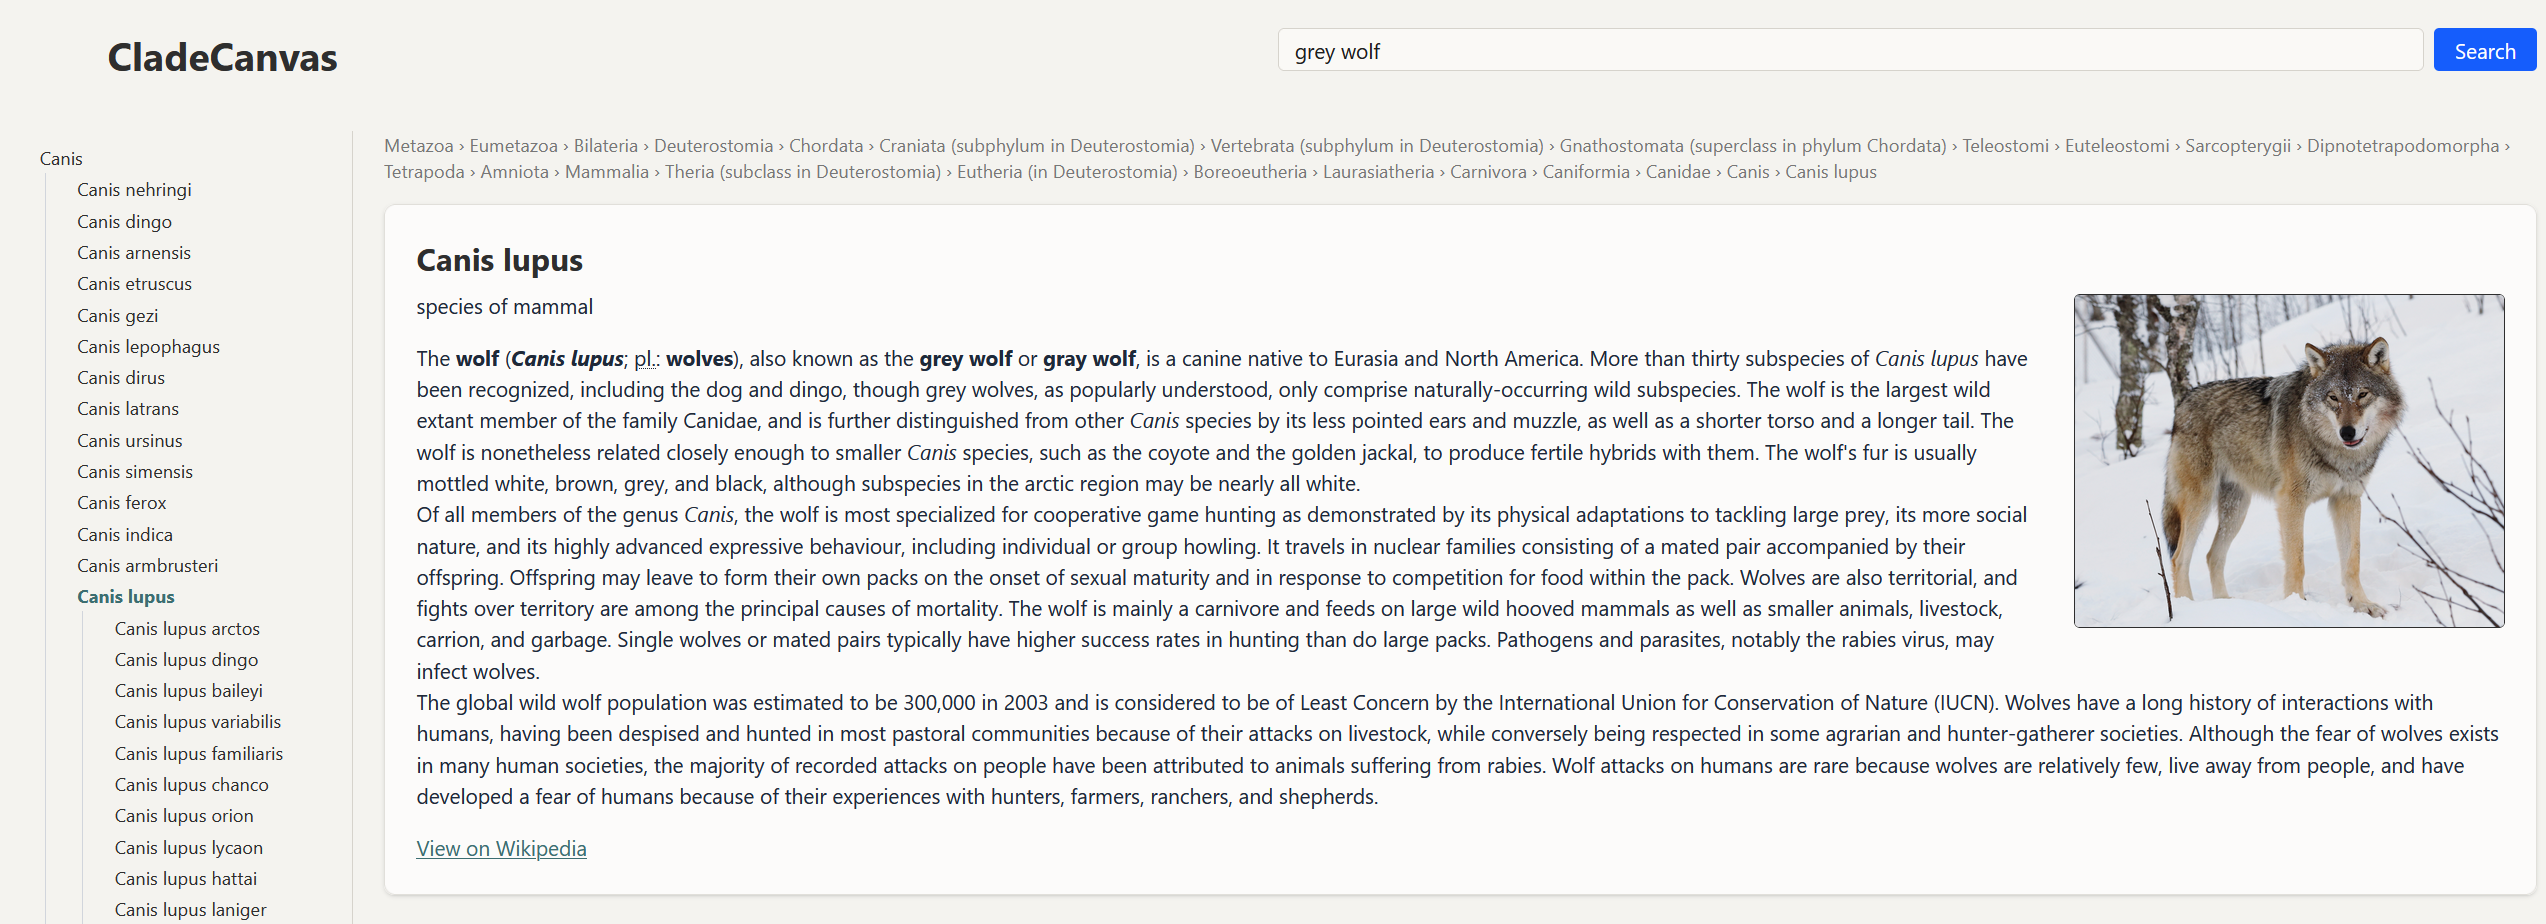
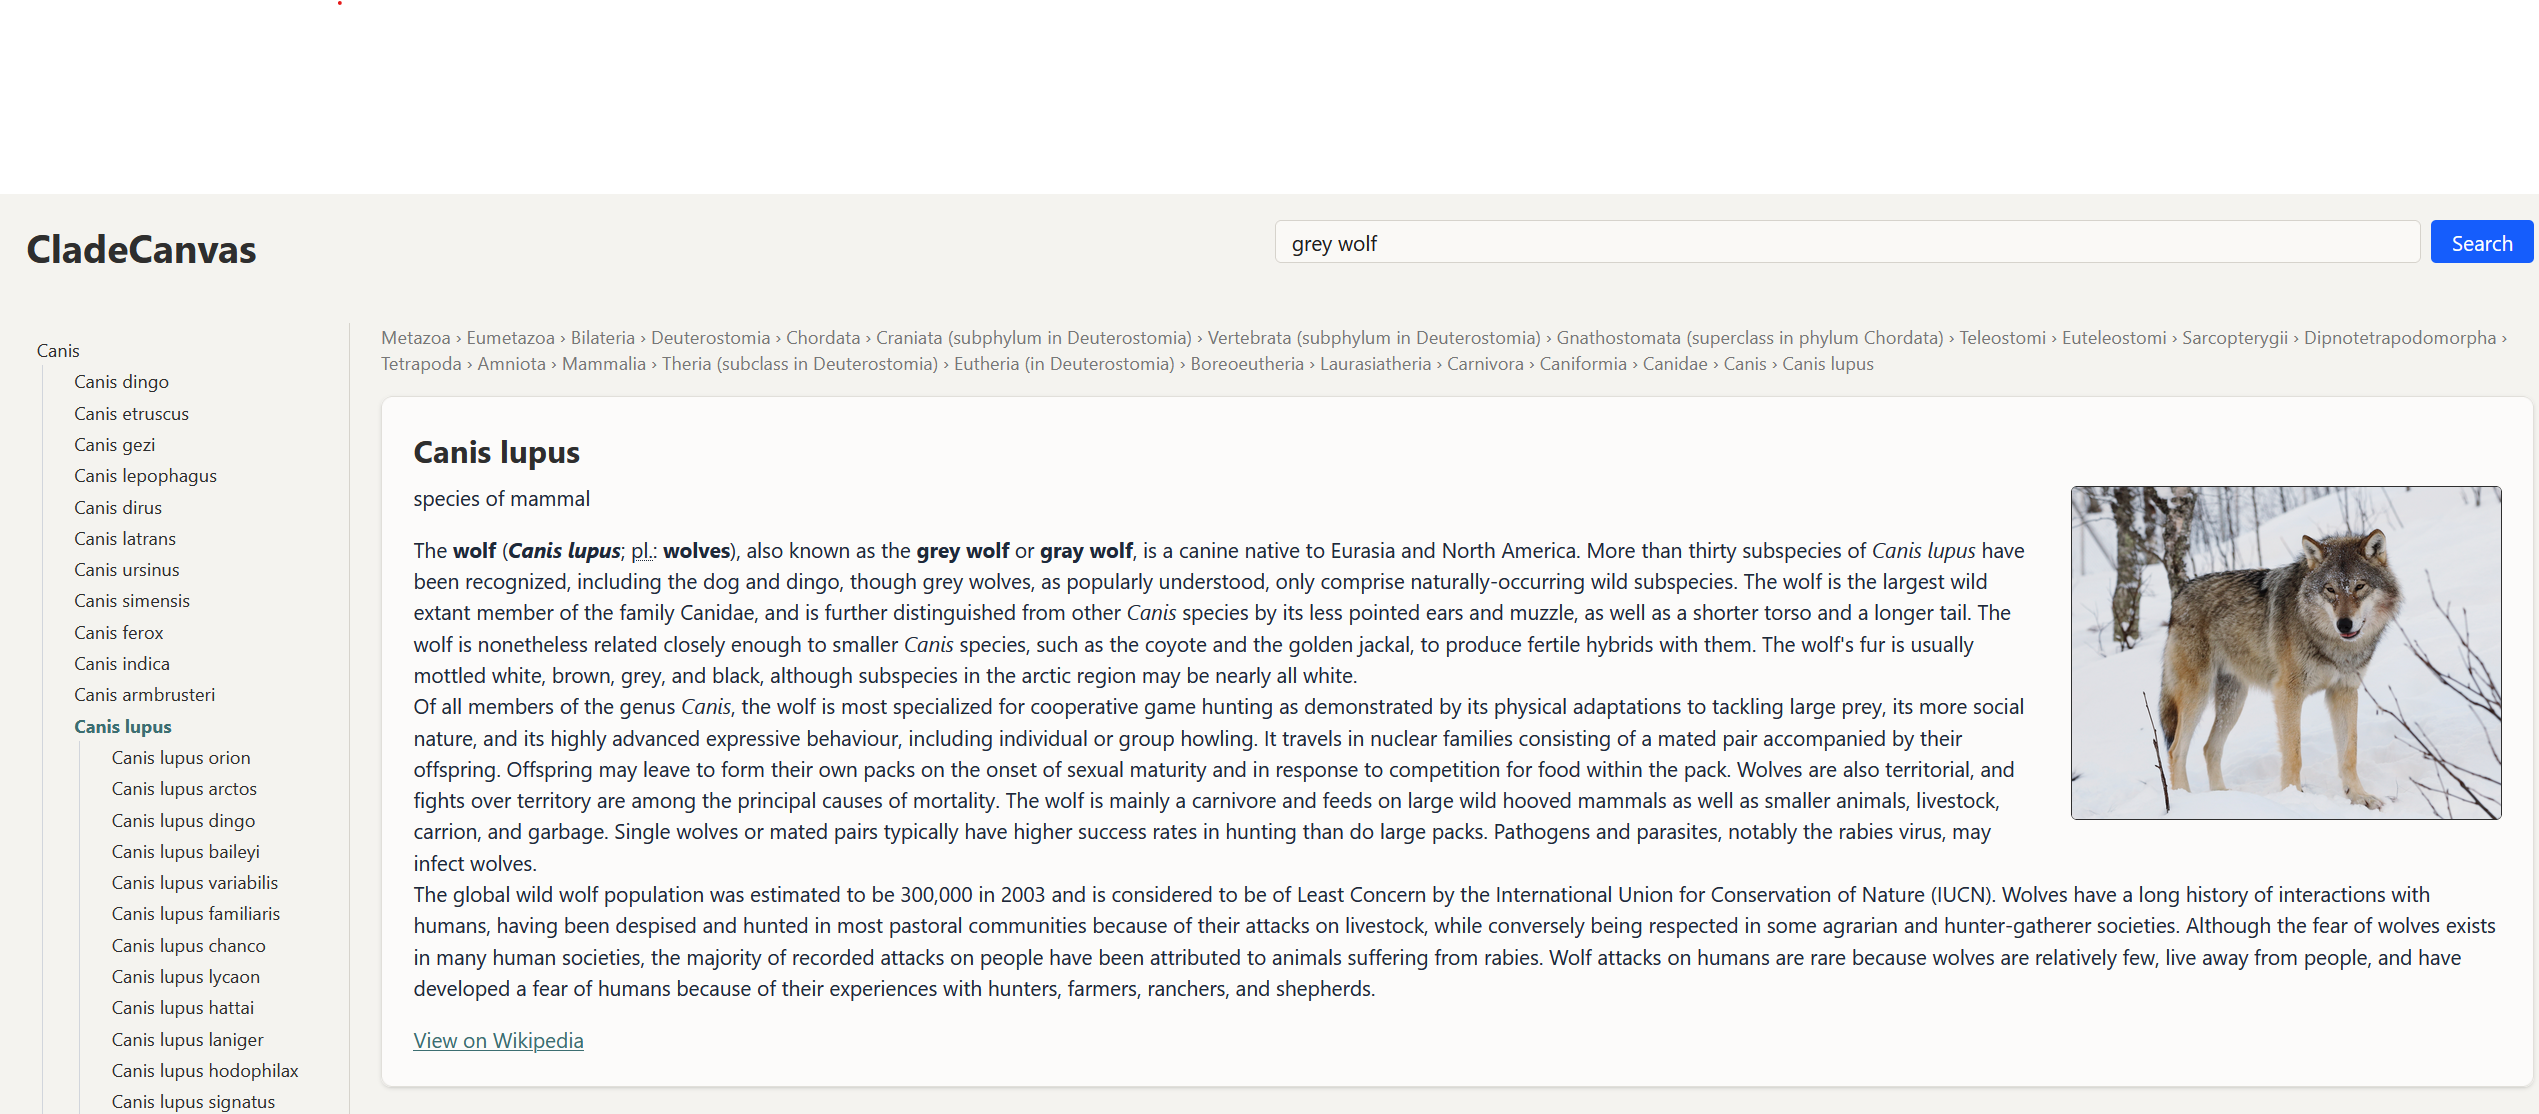
Fix title placement

diff --git a/cladecanvas/cladecanvas-ui/app/page.tsx b/cladecanvas/cladecanvas-ui/app/page.tsx
@@ -70,7 +70,7 @@ export default function Page() {
   return (
     <div className="bg-paper text-ink min-h-screen grid grid-cols-[auto,1fr] p-4 font-sans gap-6">
       <div className="col-span-2 flex justify-between items-center mb-4">
-        <h1 className="title-heading ml-[3.75rem]">CladeCanvas</h1>
+        <h1 className="title-heading">CladeCanvas</h1>
         <div className="flex gap-2 w-1/2">
           <input className="search-bar flex-1"
             placeholder="Search clades or species..."
